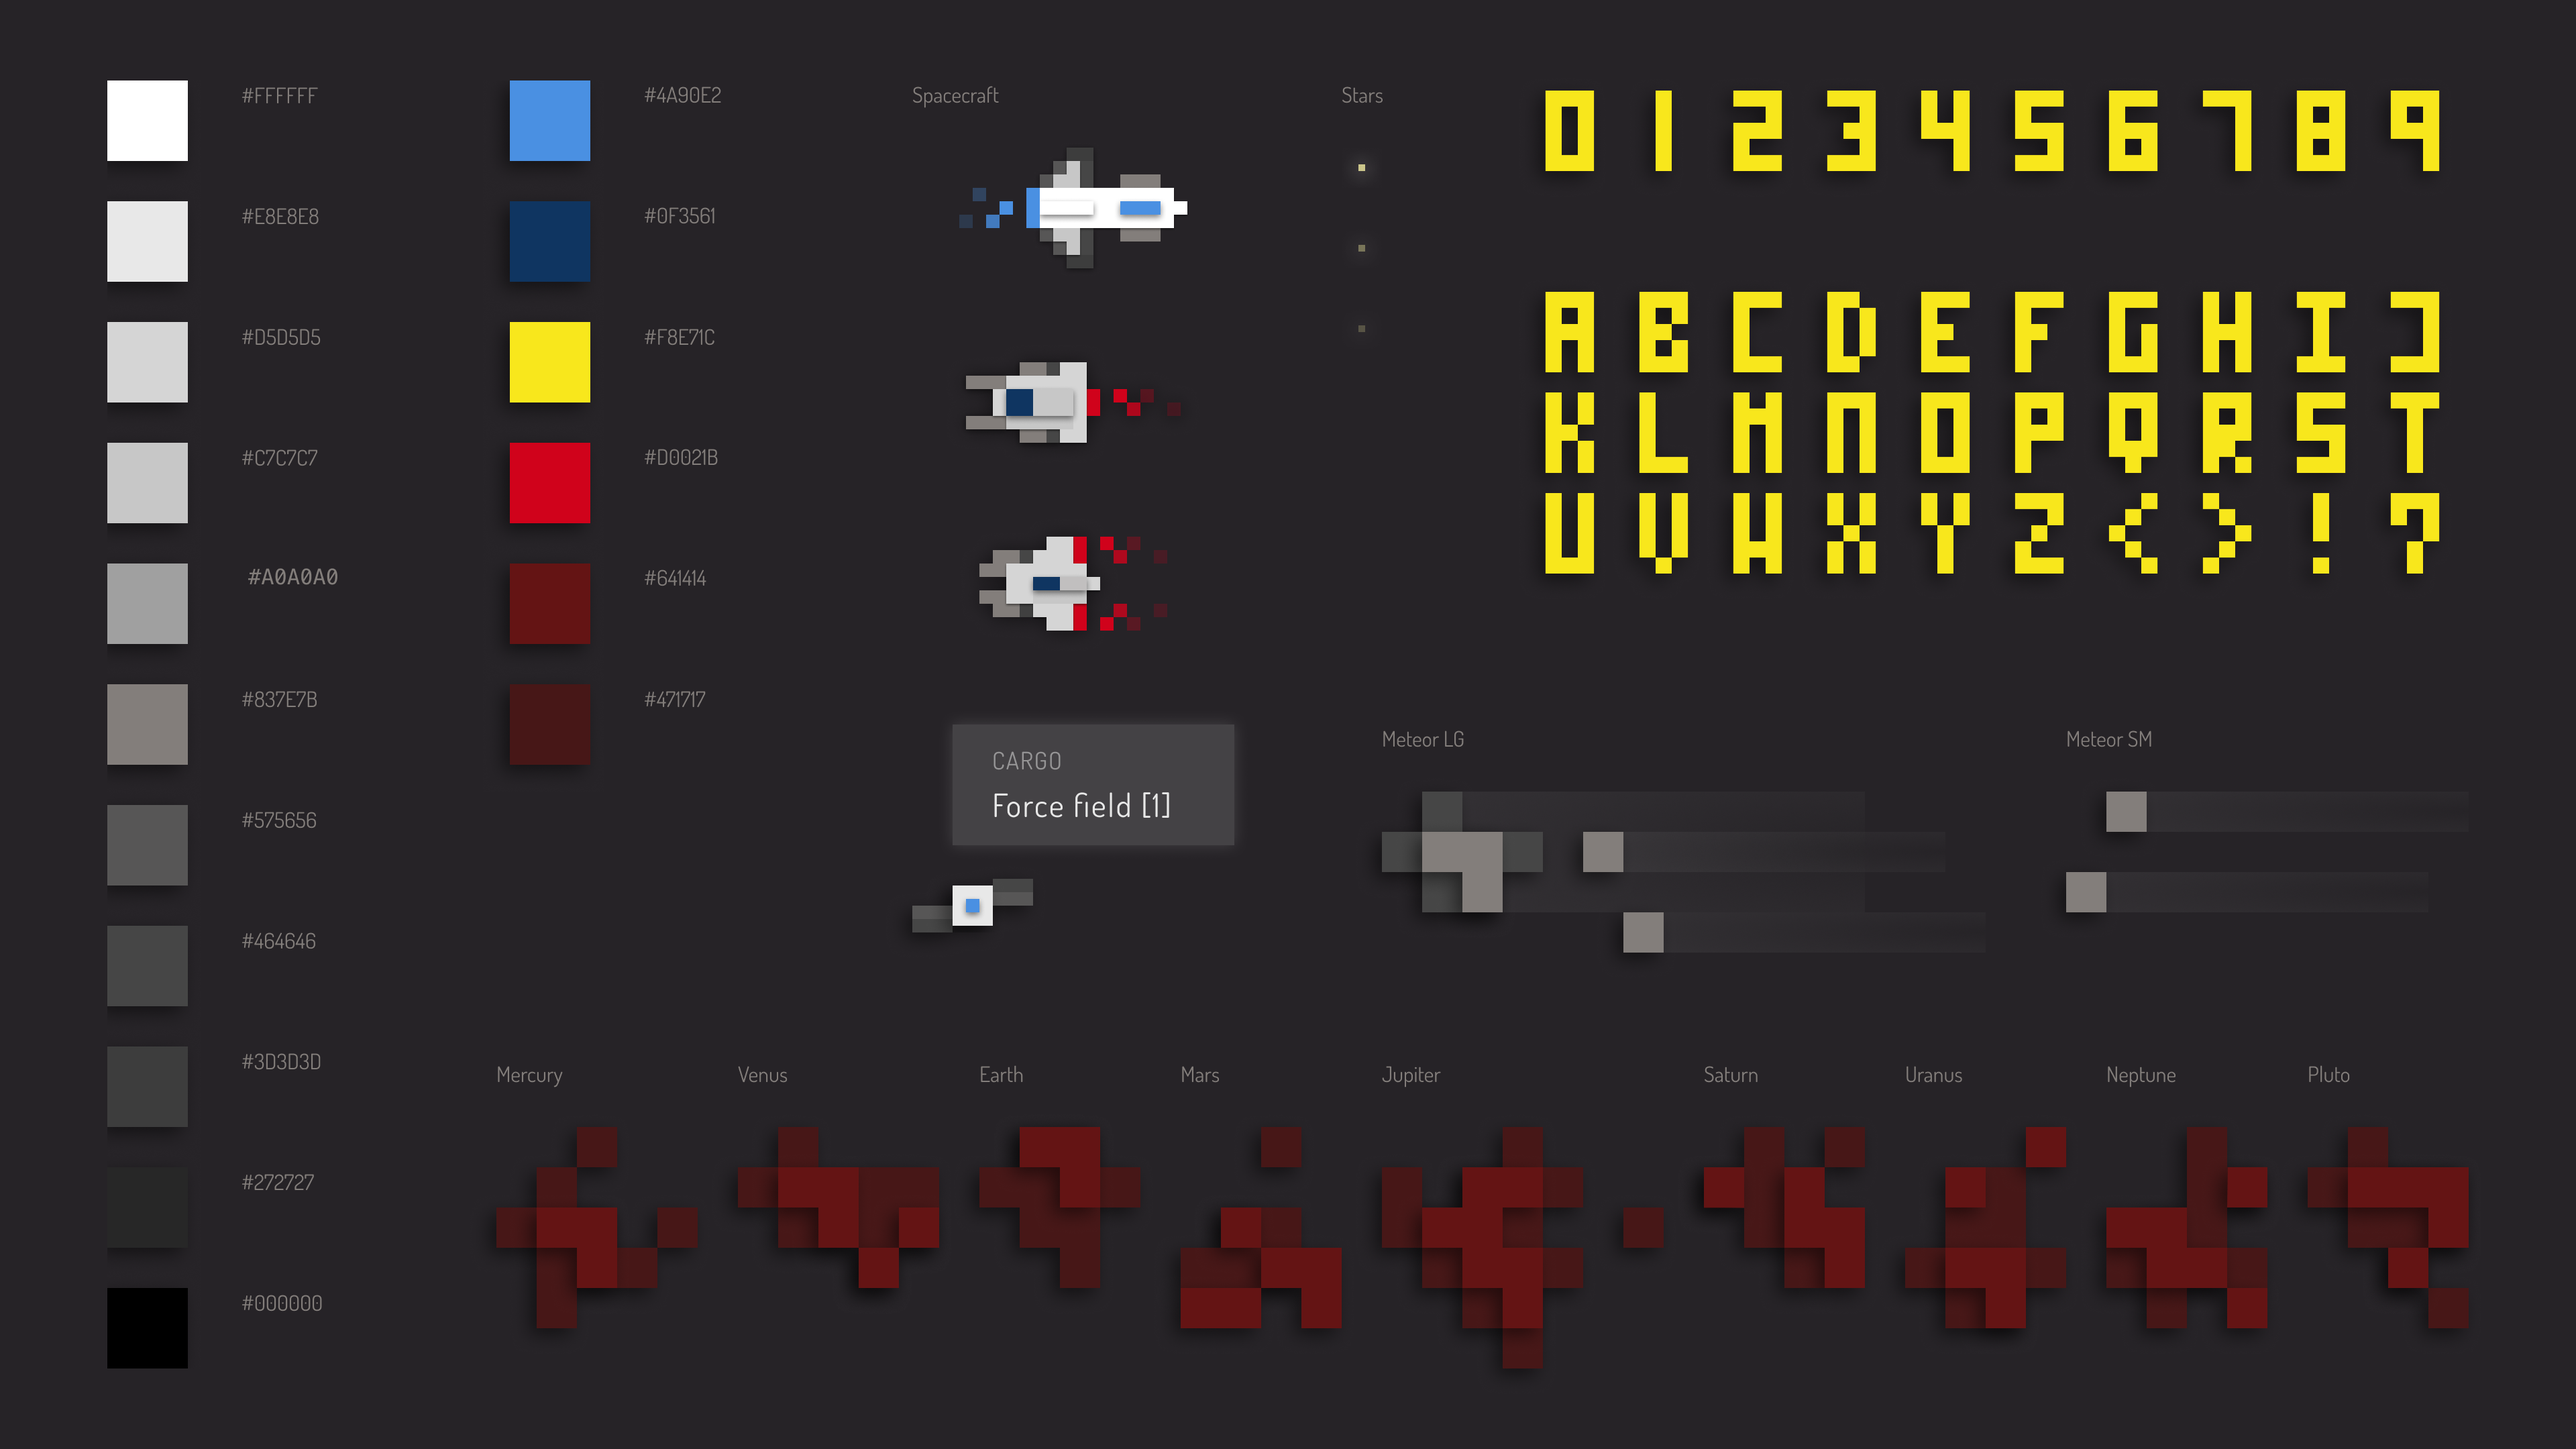
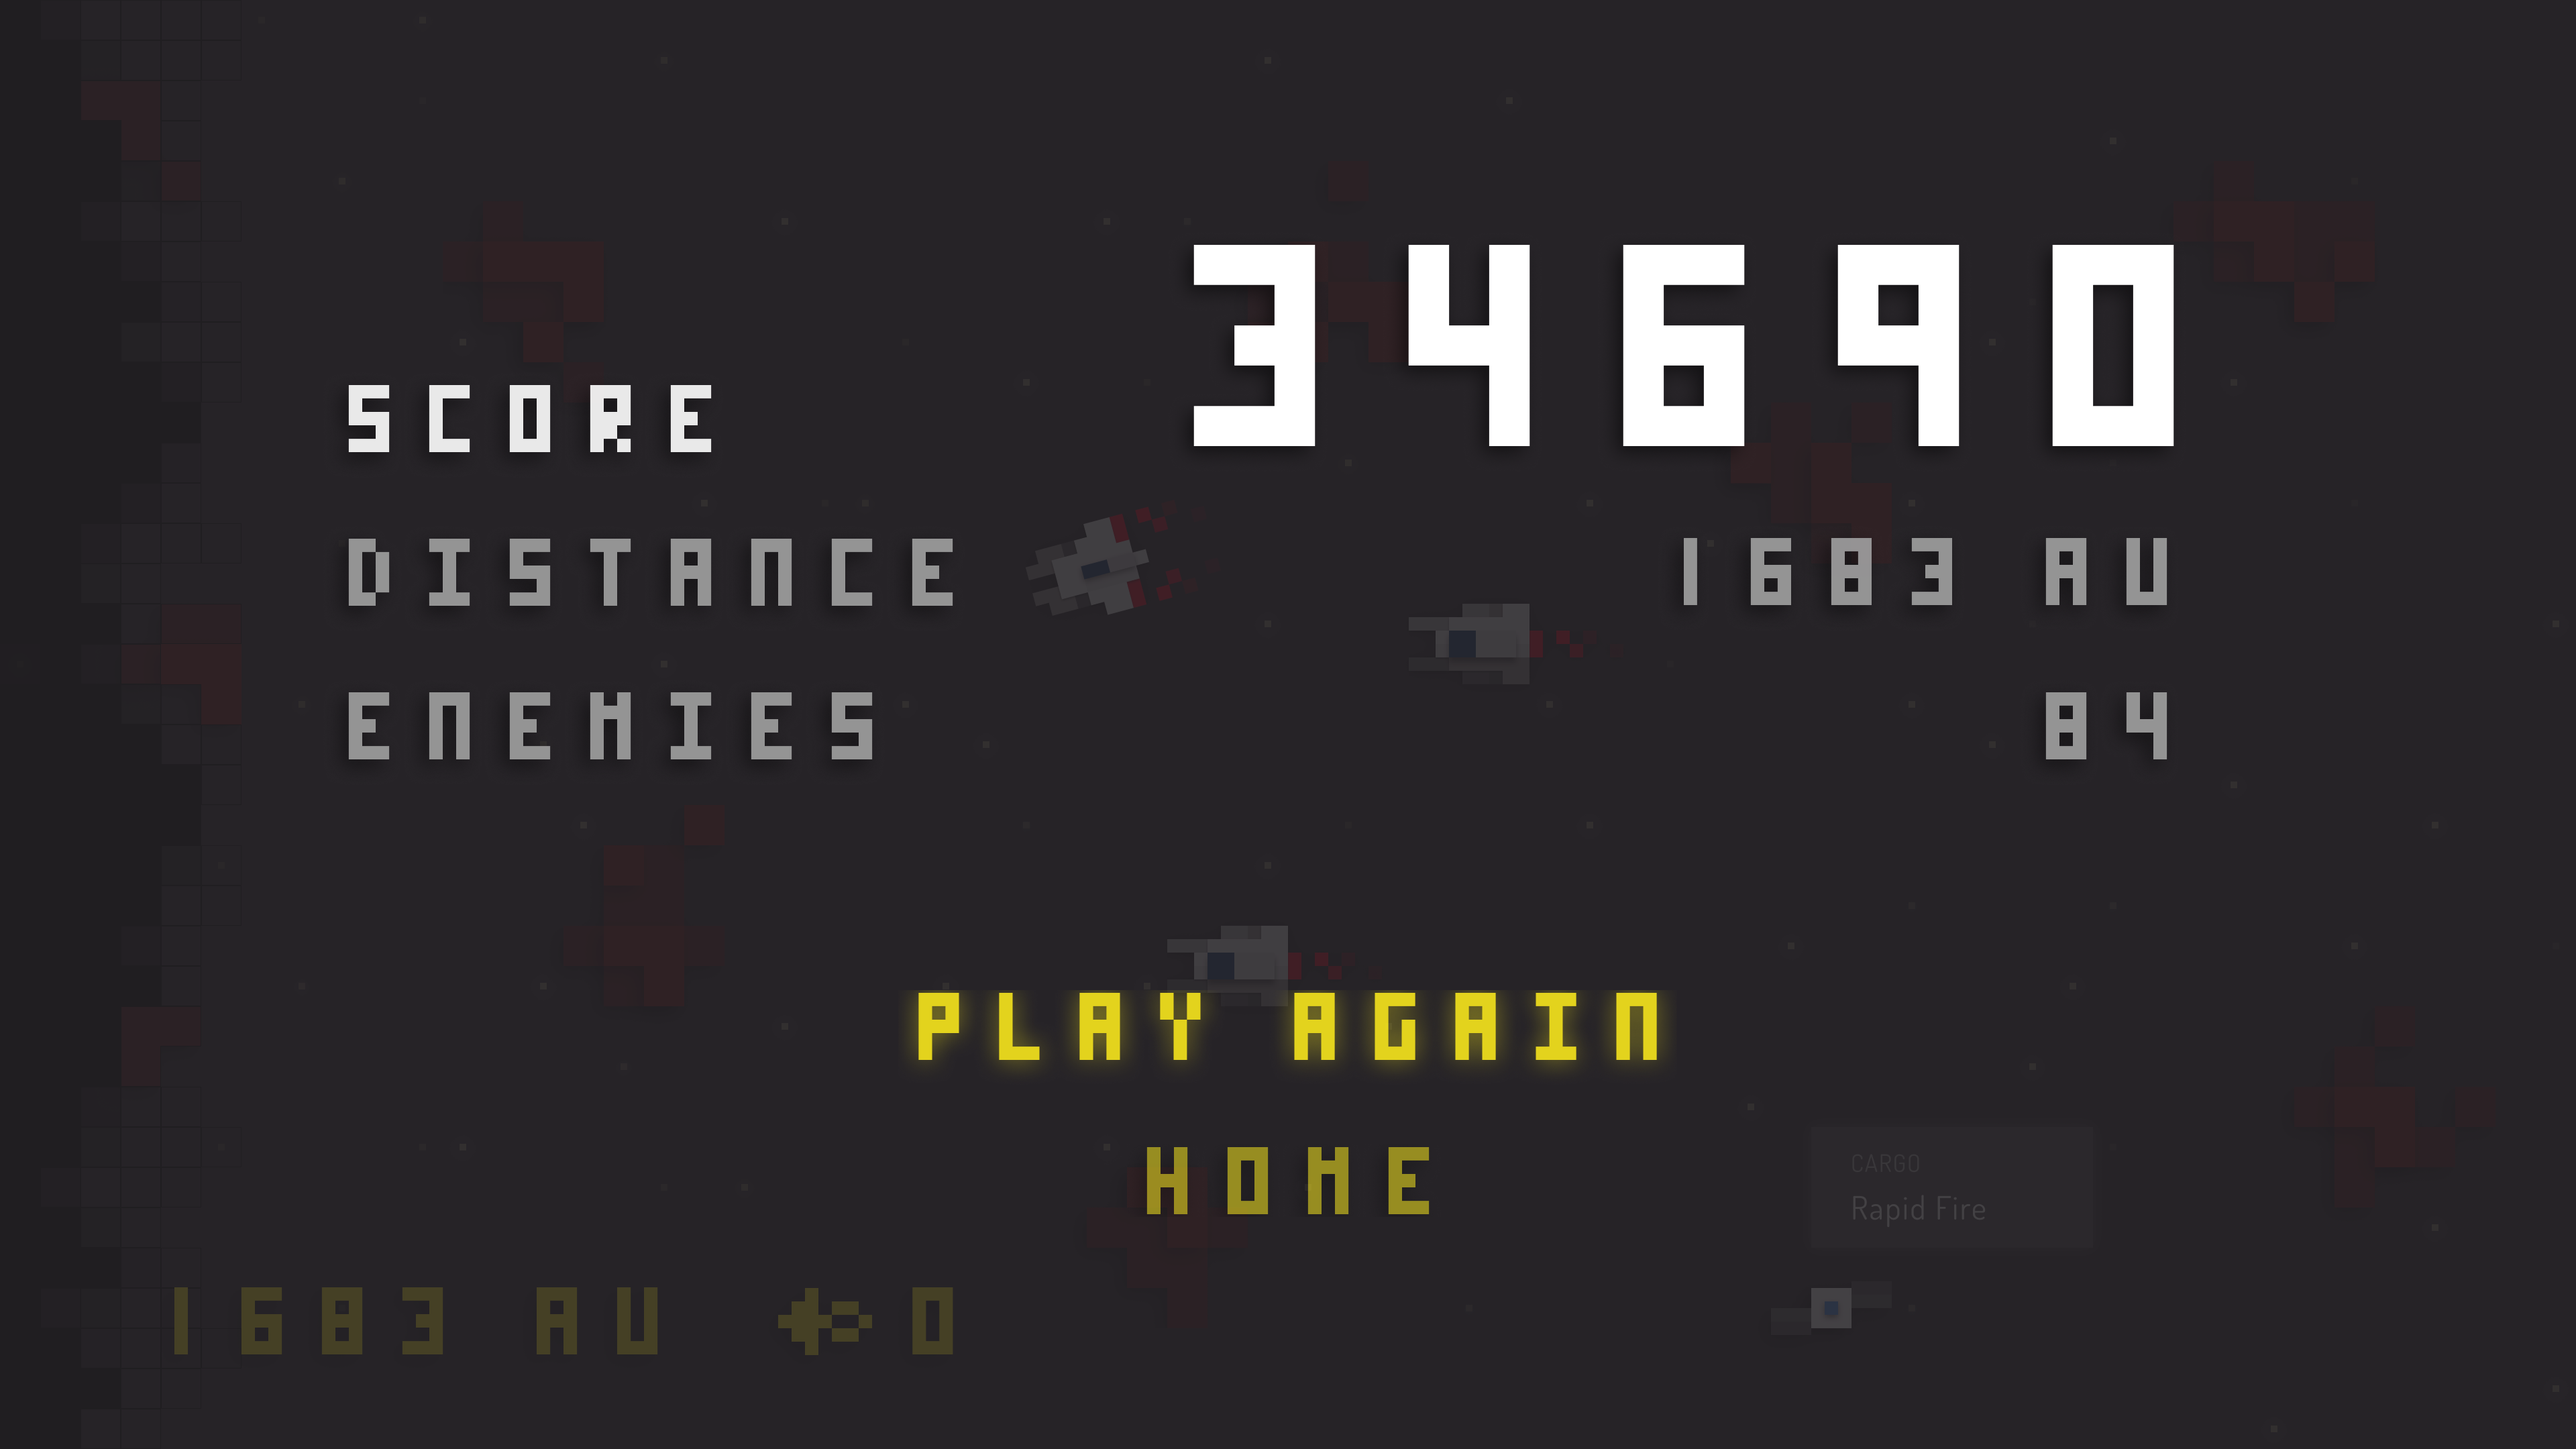
Update project asset files.

diff --git a/work/galactic-escape.html b/work/galactic-escape.html
@@ -43,6 +43,10 @@ keywords: "Art Direction, Game Design, Graphic Design"
                 <img class="img-fluid rounded-3 image-brightness-dimmed" alt="Mockup of the gameplay" src="/assets/img/galacticesc.com/content.galactic-escape-project-screenshot-02.png">
                 <figcaption class="figure-caption text-center mt-3 text-style-primary text-monospaced">Mockup of the gameplay.</figcaption>
               </figure>
+              <figure class="figure mb-5">
+                <img class="img-fluid rounded-3 image-brightness-dimmed" alt="Mockup of the game over screen" src="/assets/img/galacticesc.com/content.galactic-escape-project-screenshot-03.png">
+                <figcaption class="figure-caption text-center mt-3 text-style-primary text-monospaced">Mockup of the game over screen.</figcaption>
+              </figure>
             </div>
           </div>
           <div class="row justify-content-center">
@@ -69,7 +73,7 @@ keywords: "Art Direction, Game Design, Graphic Design"
           <div class="row justify-content-center">
             <div class="col-lg-12">
               <figure class="figure">
-                <img class="img-fluid rounded-3 image-brightness-dimmed" alt="Styles and main image assets used in the game" src="/assets/img/galacticesc.com/content.galactic-escape-project-screenshot-03.png">
+                <img class="img-fluid rounded-3 image-brightness-dimmed" alt="Styles and main image assets used in the game" src="/assets/img/galacticesc.com/content.galactic-escape-project-screenshot-04.png">
                 <figcaption class="figure-caption text-center mt-3 text-style-primary text-monospaced">Styles and main image assets used in the game.</figcaption>
               </figure>
             </div>
